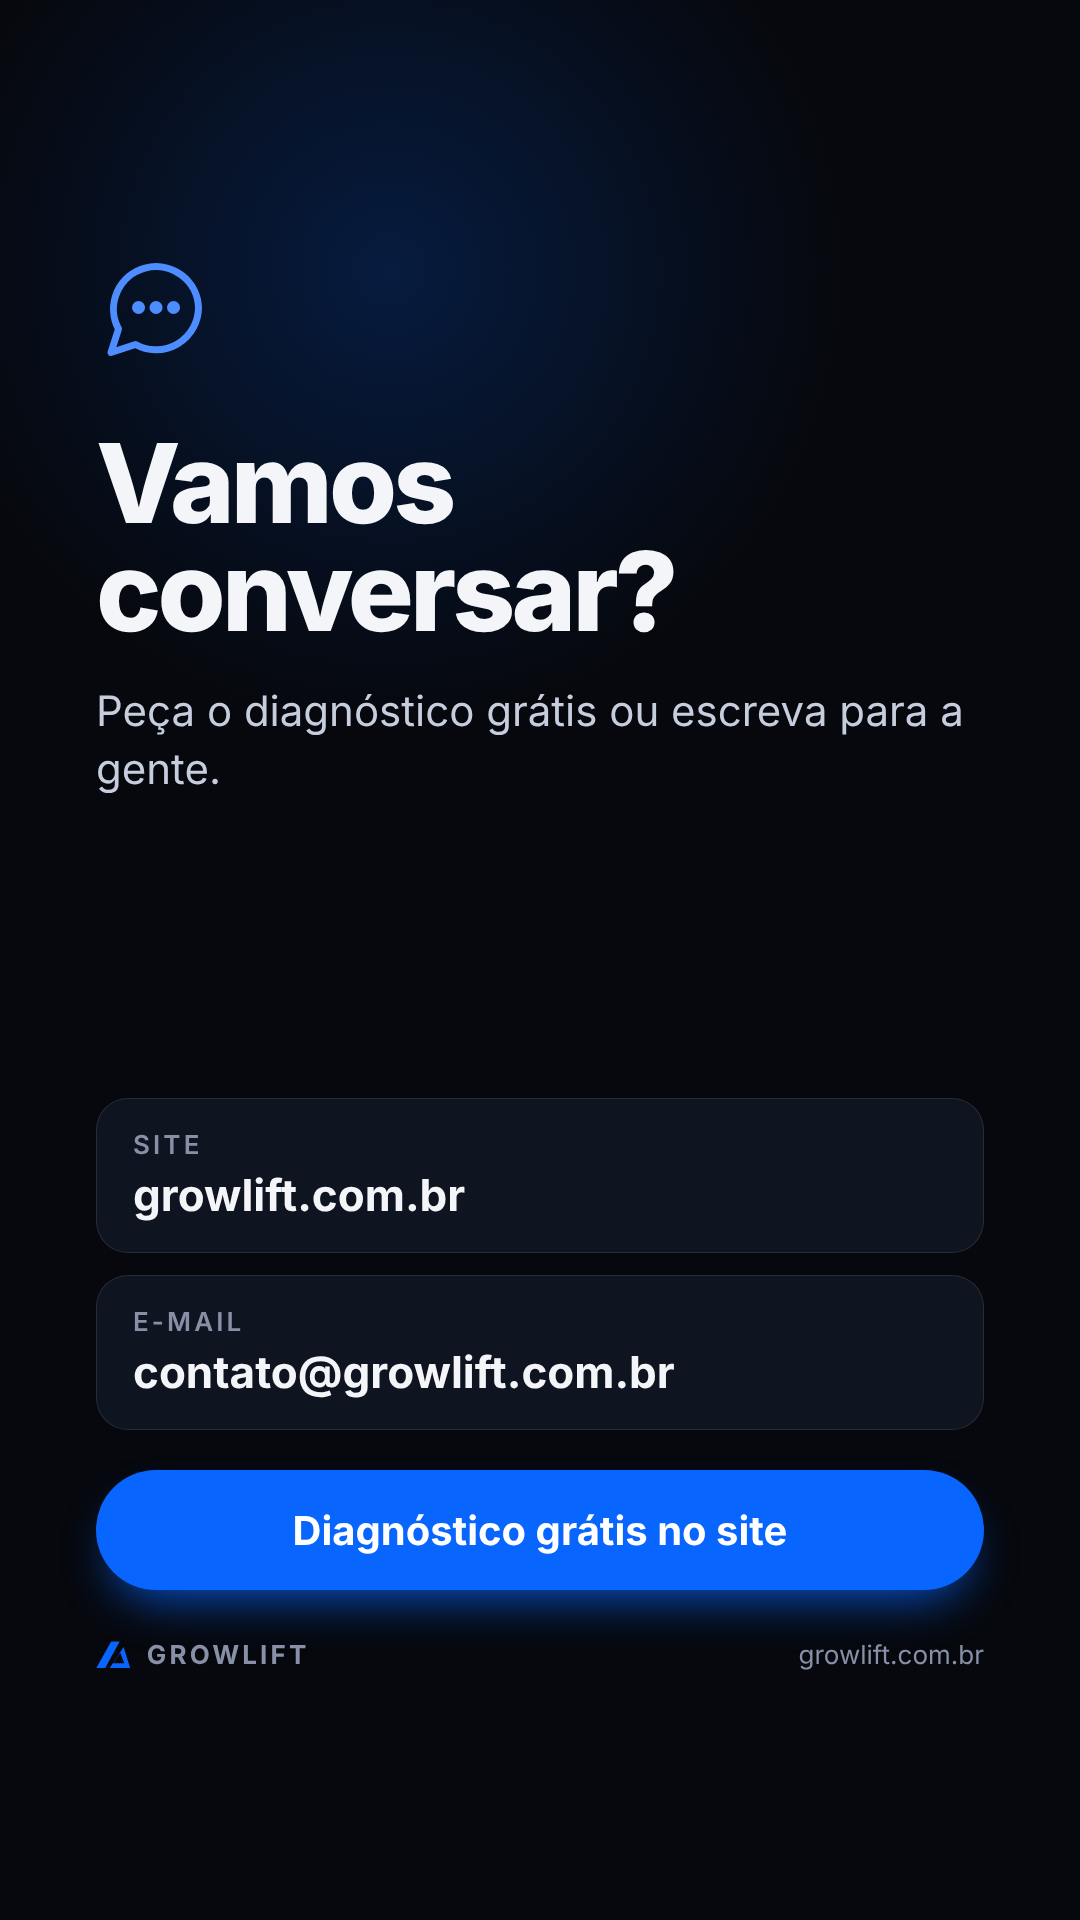
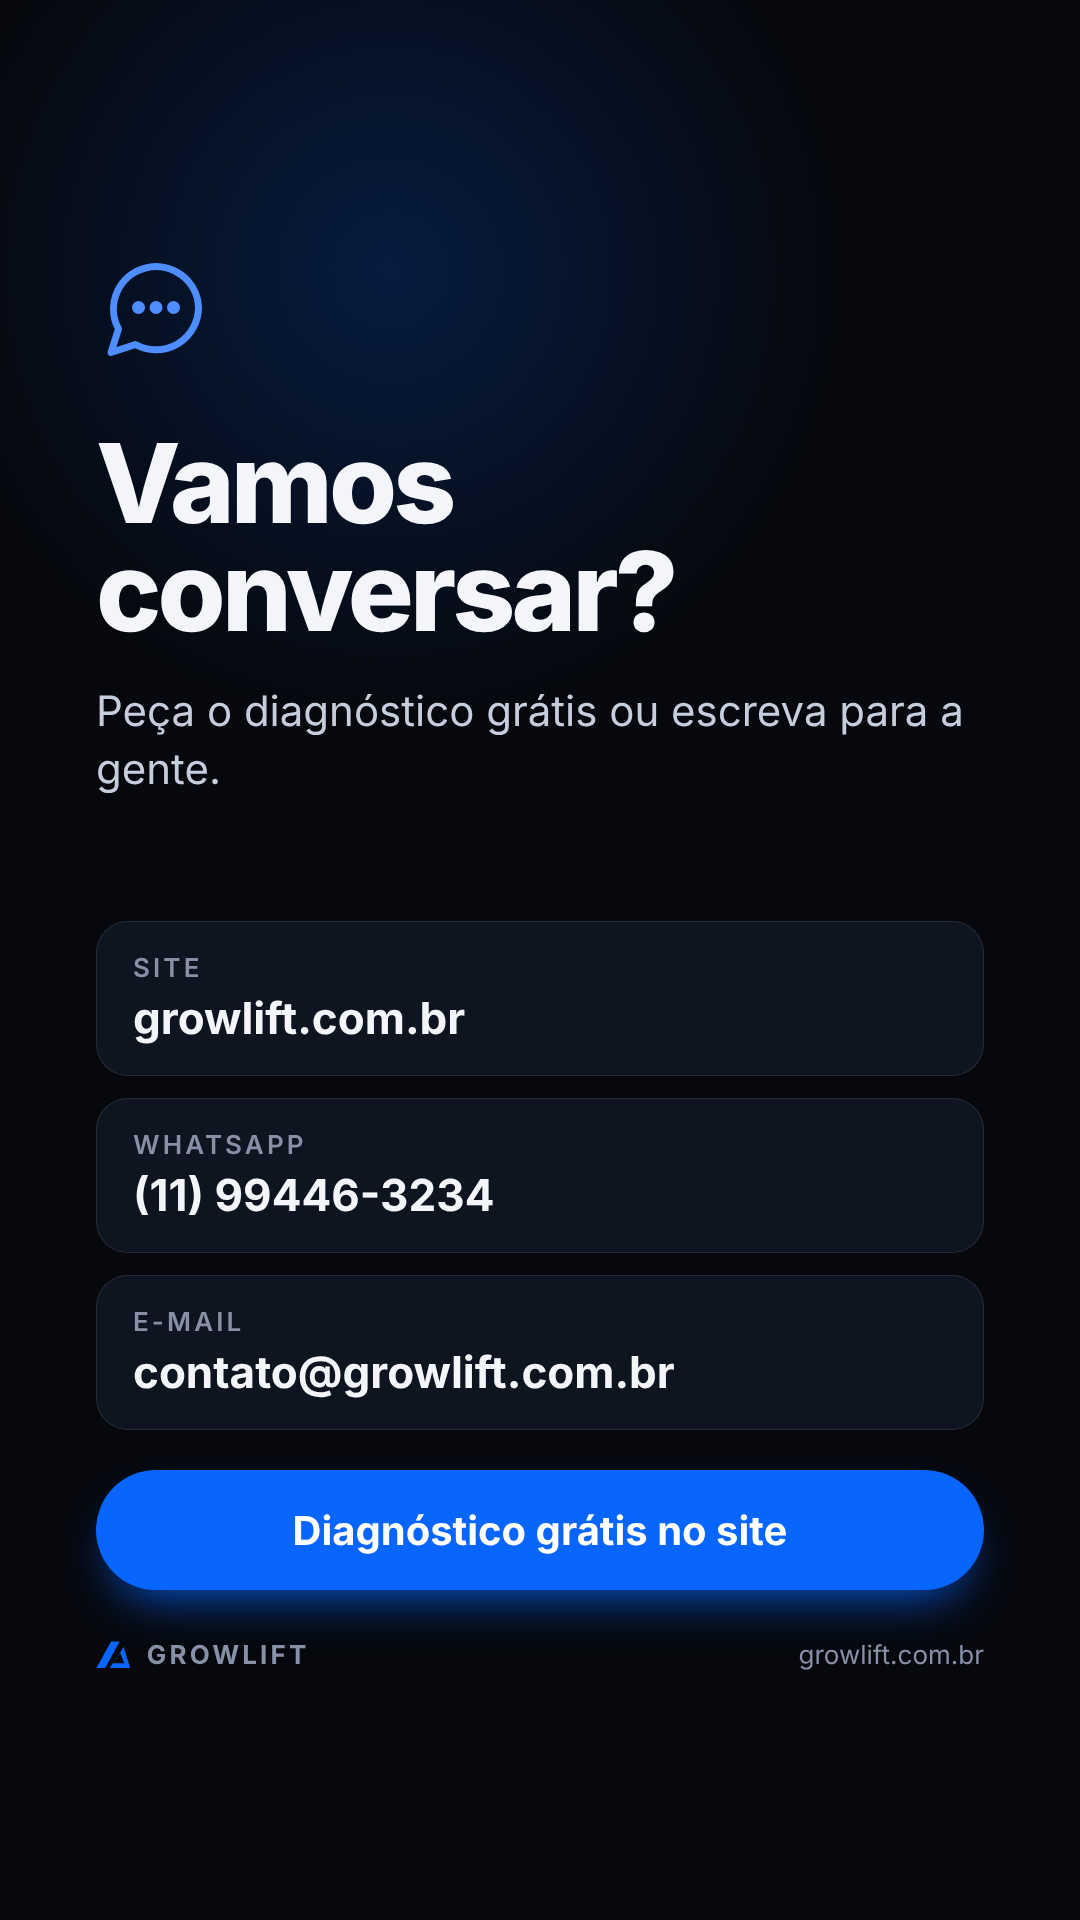
Growlift: botão de WhatsApp no topo e fidelidade do Lift em 4 meses
- Botão do WhatsApp (11) 99446-3234 no topo do site (só o ícone no celular,
  e a marca sem o nome em telas pequenas para caber) e no rodapé.
- Fidelidade: 6 meses no Start e no Grow, 4 meses no Lift, no site, nos
  termos e na resposta rápida /servicos.
- Número comercial nos textos do Instagram e do WhatsApp e story de
  contato do WhatsApp no destaque Contato.

Claude-Session: https://claude.ai/code/session_0144E8K5YaHTVDtLe8swm1ug

Changed region(s): [[0.1222, 0.5938, 0.4583, 0.6562], [0.1222, 0.5, 0.4278, 0.5625]]

diff --git a/growlift-social/_fonte/html/03-destaques/6-contato/03.html b/growlift-social/_fonte/html/03-destaques/6-contato/03.html
@@ -1,0 +1,35 @@
+<!doctype html><html lang="pt-BR"><head><base href="file:///home/user/Hamburgueria/growlift-social/_fonte/assets/"><meta charset="utf-8"><link href="https://fonts.googleapis.com/css2?family=Inter:wght@400;500;600;700;800&display=swap" rel="stylesheet"><style>:root{--w:1080px;--h:1920px}
+*{box-sizing:border-box;margin:0;padding:0}
+html,body{width:var(--w);height:var(--h);overflow:hidden}
+body{position:relative;font-family:Inter,system-ui,sans-serif;color:#f3f5f9;background:#06080d;-webkit-font-smoothing:antialiased}
+.glow{position:absolute;border-radius:50%;pointer-events:none;background:radial-gradient(closest-side,rgba(8,101,254,.42),rgba(8,101,254,0) 70%)}
+.grid{position:absolute;inset:0;background-image:linear-gradient(rgba(255,255,255,.035) 1px,transparent 1px),linear-gradient(90deg,rgba(255,255,255,.035) 1px,transparent 1px);background-size:72px 72px;-webkit-mask-image:radial-gradient(ellipse at 50% 45%,#000 25%,transparent 72%)}
+.eyebrow{font-size:28px;font-weight:600;letter-spacing:.16em;text-transform:uppercase;color:#6ea6ff}
+.h1{font-weight:800;letter-spacing:-.035em;line-height:.98}
+.blue{color:#4d8dff}
+.lead{color:#c6cede;line-height:1.4}
+.muted{color:#a9b3c7}
+.chip{display:inline-flex;align-items:center;gap:12px;border:1px solid rgba(141,184,255,.35);color:#8db8ff;border-radius:999px;font-weight:600;letter-spacing:.08em;text-transform:uppercase}
+.btn{display:inline-flex;align-items:center;justify-content:center;background:#0865fe;color:#fff;border-radius:999px;font-weight:700;box-shadow:0 24px 50px -20px rgba(8,101,254,.9)}
+.card{background:#0f1520;border:1px solid rgba(255,255,255,0.10);border-radius:32px}
+.brand{display:flex;align-items:center;gap:16px;font-weight:700;letter-spacing:.12em}
+.brand svg{height:1.05em;width:auto}
+.browser{border-radius:26px;overflow:hidden;background:#0f1520;border:1px solid rgba(255,255,255,0.10);box-shadow:0 -30px 90px -30px rgba(8,101,254,.55),0 40px 80px -40px rgba(0,0,0,.9)}
+.browser .bar{display:flex;align-items:center;gap:10px;height:54px;padding:0 22px;border-bottom:1px solid rgba(255,255,255,.08)}
+.browser .bar i{width:14px;height:14px;border-radius:50%;background:#2a3344}
+.browser .bar span{margin-left:14px;font-size:20px;color:#7d879c;background:#161d2a;padding:6px 18px;border-radius:999px}
+.browser img{display:block;width:100%;aspect-ratio:16/10;object-fit:cover;object-position:top}
+.phone{border-radius:64px;padding:16px;background:#1a2130;box-shadow:0 50px 90px -40px rgba(0,0,0,.95),0 0 0 2px rgba(255,255,255,.06)}
+.phone img{display:block;width:100%;border-radius:50px}
+.tag-conceito{display:inline-block;font-size:22px;font-weight:600;letter-spacing:.06em;color:#8790a6;border:1px dashed rgba(255,255,255,.22);border-radius:999px;padding:8px 18px}
+</style></head><body>
+    <div class="glow" style="width:1300px;height:1300px;left:-260px;top:-380px;opacity:.5"></div>
+    <div style="position:absolute;left:96px;right:96px;top:250px;bottom:330px;display:flex;flex-direction:column">
+    <div><svg width="120" height="120" viewBox="0 0 24 24" fill="none" stroke="#4d8dff" stroke-width="1.4" stroke-linecap="round" stroke-linejoin="round" aria-hidden="true"><path d="M20.5 11.5a8.5 8.5 0 0 1-12.6 7.4L3 20.5l1.5-4.7A8.5 8.5 0 1 1 20.5 11.5z"/><path d="M8.5 11.5h.01M12 11.5h.01M15.5 11.5h.01" stroke-width="2.6"/></svg></div>
+    <h1 class="h1" style="font-size:110px;margin-top:56px">Chama no WhatsApp.</h1>
+    <p class="lead" style="font-size:42px;margin-top:36px">Tire dúvidas sobre os planos ou peça o seu diagnóstico.</p>
+    <div style="margin-top:auto;display:grid;gap:22px">
+      <div class="card" style="padding:30px 36px"><p style="font-size:26px;letter-spacing:.12em;text-transform:uppercase;color:#8790a6;font-weight:600">WhatsApp</p><p style="font-size:44px;font-weight:700;margin-top:8px">(11) 99446-3234</p></div><div class="card" style="padding:30px 36px"><p style="font-size:26px;letter-spacing:.12em;text-transform:uppercase;color:#8790a6;font-weight:600">Resposta</p><p style="font-size:44px;font-weight:700;margin-top:8px">Por uma pessoa, em dias úteis</p></div>
+    </div>
+    <div class="btn" style="margin-top:40px;height:120px;font-size:40px">Toque no link para conversar</div></div>
+    <div style="position:absolute;left:96px;right:96px;bottom:250px;display:flex;justify-content:space-between;align-items:center;color:#8790a6;font-size:26px"><div class="brand" style="font-size:26px"><svg viewBox="50 40 530 415" xmlns="http://www.w3.org/2000/svg"><path fill="#0865FE" d="M280 48H410L190 450H55Z"/><path fill="#0865FE" fill-rule="evenodd" d="M470 130L570 450H258Z M418 220L480 380H309Z"/></svg>GROWLIFT</div><span>growlift.com.br</span></div></body></html>

diff --git a/growlift/index.html b/growlift/index.html
@@ -20,12 +20,13 @@
 
 <header class="top" id="topo">
   <div class="wrap">
-    <a class="logo" href="#conteudo" aria-label="Growlift, início"><svg aria-hidden="true"><use href="#marca"/></svg>GROWLIFT</a>
+    <a class="logo" href="#conteudo" aria-label="Growlift, início"><svg aria-hidden="true"><use href="#marca"/></svg><span class="logo-word">GROWLIFT</span></a>
     <nav class="nav" aria-label="Principal">
       <a href="#como-funciona">Como funciona</a>
       <a href="#modelos">Modelos</a>
       <a href="#planos">Planos</a>
       <a href="#quem-somos">Quem somos</a>
+      <a class="btn btn-ghost btn-wa" href="https://wa.me/5511994463234?text=Ol%C3%A1!%20Vim%20pelo%20site%20da%20Growlift%20e%20tenho%20uma%20d%C3%BAvida." target="_blank" rel="noopener" aria-label="Tirar dúvidas no WhatsApp"><svg viewBox="0 0 24 24" aria-hidden="true"><path fill="currentColor" d="M12.04 2C6.58 2 2.13 6.45 2.13 11.91c0 1.75.46 3.45 1.32 4.95L2.05 22l5.25-1.38a9.86 9.86 0 0 0 4.74 1.21h.01c5.46 0 9.91-4.45 9.91-9.91 0-2.65-1.03-5.14-2.9-7.01A9.82 9.82 0 0 0 12.04 2zm0 18.15h-.01a8.2 8.2 0 0 1-4.19-1.15l-.3-.18-3.12.82.83-3.04-.2-.31a8.2 8.2 0 0 1-1.26-4.38c0-4.54 3.7-8.24 8.25-8.24 2.2 0 4.27.86 5.83 2.42a8.18 8.18 0 0 1 2.41 5.83c0 4.54-3.7 8.23-8.24 8.23zm4.52-6.16c-.25-.12-1.47-.72-1.69-.81-.23-.08-.39-.12-.56.12-.17.25-.64.81-.78.97-.14.17-.29.19-.54.06-.25-.12-1.05-.39-1.99-1.23-.74-.66-1.23-1.47-1.38-1.72-.14-.25-.02-.38.11-.51.11-.11.25-.29.37-.43.12-.14.17-.25.25-.41.08-.17.04-.31-.02-.43-.06-.12-.56-1.34-.76-1.84-.2-.48-.41-.42-.56-.43h-.48c-.17 0-.43.06-.66.31-.23.25-.86.85-.86 2.07 0 1.22.89 2.4 1.01 2.56.12.17 1.75 2.67 4.23 3.74.59.26 1.05.41 1.41.52.59.19 1.13.16 1.56.1.48-.07 1.47-.6 1.67-1.18.21-.58.21-1.07.14-1.18-.06-.11-.22-.17-.47-.29z"/></svg><span>WhatsApp</span></a>
       <a class="btn btn-primary" href="#diagnostico">Diagnóstico grátis</a>
     </nav>
   </div>
@@ -209,7 +210,7 @@
           <a class="btn btn-ghost" href="#diagnostico">Quero vender pelo site</a>
         </article>
       </div>
-      <p class="plans-note reveal">O domínio fica no nome do seu negócio. No Lift, o Pix cai direto na sua conta.<br>Planos com contrato e fidelidade: 6 meses no Start e no Grow, 12 meses no Lift, com a criação do site sem custo. Se sair antes, paga só a parte proporcional da criação. Desistência em até 7 dias sem multa.<br>O site vai ao ar em até 7 dias úteis depois que recebemos o seu material (fotos, textos, cardápio ou serviços). SEO e Perfil no Google ajudam quem procura a achar você, mas ninguém pode garantir posição no Google.</p>
+      <p class="plans-note reveal">O domínio fica no nome do seu negócio. No Lift, o Pix cai direto na sua conta.<br>Planos com contrato e fidelidade: 6 meses no Start e no Grow, 4 meses no Lift, com a criação do site sem custo. Se sair antes, paga só a parte proporcional da criação. Desistência em até 7 dias sem multa.<br>O site vai ao ar em até 7 dias úteis depois que recebemos o seu material (fotos, textos, cardápio ou serviços). SEO e Perfil no Google ajudam quem procura a achar você, mas ninguém pode garantir posição no Google.</p>
     </div>
   </section>
 
@@ -323,6 +324,7 @@
     <div>
       <h3>Contato</h3>
       <ul>
+        <li><a href="https://wa.me/5511994463234?text=Ol%C3%A1!%20Vim%20pelo%20site%20da%20Growlift%20e%20tenho%20uma%20d%C3%BAvida." target="_blank" rel="noopener">WhatsApp (11) 99446-3234</a></li>
         <li><a href="mailto:contato@growlift.com.br">contato@growlift.com.br</a></li>
         <li><a href="https://instagram.com/growlift.ai" target="_blank" rel="noopener">@growlift.ai</a></li>
       </ul>

diff --git a/growlift-social/_fonte/html/03-destaques/6-contato/01.html b/growlift-social/_fonte/html/03-destaques/6-contato/01.html
@@ -29,7 +29,7 @@ body{position:relative;font-family:Inter,system-ui,sans-serif;color:#f3f5f9;back
     <h1 class="h1" style="font-size:110px;margin-top:56px">Vamos conversar?</h1>
     <p class="lead" style="font-size:42px;margin-top:36px">Peça o diagnóstico grátis ou escreva para a gente.</p>
     <div style="margin-top:auto;display:grid;gap:22px">
-      <div class="card" style="padding:30px 36px"><p style="font-size:26px;letter-spacing:.12em;text-transform:uppercase;color:#8790a6;font-weight:600">Site</p><p style="font-size:44px;font-weight:700;margin-top:8px">growlift.com.br</p></div><div class="card" style="padding:30px 36px"><p style="font-size:26px;letter-spacing:.12em;text-transform:uppercase;color:#8790a6;font-weight:600">E-mail</p><p style="font-size:44px;font-weight:700;margin-top:8px">contato@growlift.com.br</p></div>
+      <div class="card" style="padding:30px 36px"><p style="font-size:26px;letter-spacing:.12em;text-transform:uppercase;color:#8790a6;font-weight:600">Site</p><p style="font-size:44px;font-weight:700;margin-top:8px">growlift.com.br</p></div><div class="card" style="padding:30px 36px"><p style="font-size:26px;letter-spacing:.12em;text-transform:uppercase;color:#8790a6;font-weight:600">WhatsApp</p><p style="font-size:44px;font-weight:700;margin-top:8px">(11) 99446-3234</p></div><div class="card" style="padding:30px 36px"><p style="font-size:26px;letter-spacing:.12em;text-transform:uppercase;color:#8790a6;font-weight:600">E-mail</p><p style="font-size:44px;font-weight:700;margin-top:8px">contato@growlift.com.br</p></div>
     </div>
     <div class="btn" style="margin-top:40px;height:120px;font-size:40px">Diagnóstico grátis no site</div></div>
     <div style="position:absolute;left:96px;right:96px;bottom:250px;display:flex;justify-content:space-between;align-items:center;color:#8790a6;font-size:26px"><div class="brand" style="font-size:26px"><svg viewBox="50 40 530 415" xmlns="http://www.w3.org/2000/svg"><path fill="#0865FE" d="M280 48H410L190 450H55Z"/><path fill="#0865FE" fill-rule="evenodd" d="M470 130L570 450H258Z M418 220L480 380H309Z"/></svg>GROWLIFT</div><span>growlift.com.br</span></div></body></html>

diff --git a/growlift/termos.html b/growlift/termos.html
@@ -34,7 +34,7 @@
 </header>
 <main class="doc" id="conteudo">
   <h1>Termos de uso</h1>
-  <p class="updated">Última atualização: outubro de 2026</p>
+  <p class="updated">Última atualização: 26 de outubro de 2026</p>
 
   <p>Estes termos valem para quem usa o site da Growlift e pede o diagnóstico grátis. A contratação de um plano é feita por contrato escrito, que traz todas as condições; se algo aqui for diferente do contrato, vale o contrato.</p>
 
@@ -51,7 +51,7 @@
   <h2>Planos e contratação</h2>
   <ul>
     <li>Os planos Start, Grow e Lift têm mensalidade fixa, sem comissão sobre pedidos. Os valores e o que cada plano inclui estão na seção <a href="index.html#planos">Planos</a>.</li>
-    <li>Os planos têm fidelidade: 6 meses no Start e no Grow e 12 meses no Lift, com a criação do site sem custo para quem cumpre esse prazo.</li>
+    <li>Os planos têm fidelidade: 6 meses no Start e no Grow e 4 meses no Lift, com a criação do site sem custo para quem cumpre esse prazo.</li>
     <li>O site vai ao ar em até 7 dias úteis depois que recebemos o seu material (fotos, textos, cardápio ou serviços).</li>
     <li>Alterações por mês: 1 no Start, 2 no Grow e 4 no Lift, cada uma pronta em até 2 dias úteis.</li>
     <li>O domínio do site é registrado no nome do seu negócio.</li>

diff --git a/growlift/styles.css b/growlift/styles.css
@@ -63,6 +63,12 @@ section { position: relative; }
 .nav a:not(.btn) { color: var(--muted); text-decoration: none; }
 .nav a:not(.btn):hover { color: var(--text); }
 .nav .btn { min-height: 44px; padding: 0 20px; font-size: 15px; white-space: nowrap; }
+.btn-wa { gap: 8px; }
+.btn-wa svg { width: 20px; height: 20px; color: #25d366; flex: none; }
+.nav .btn-wa + .btn { margin-left: -18px; }
+@media (max-width: 860px) { .nav .btn-wa { width: 44px; padding: 0; } .btn-wa span { display: none; } }
+/* Phones: the mark alone, so the WhatsApp and diagnosis buttons fit beside it. */
+@media (max-width: 480px) { .top .logo-word { display: none; } }
 @media (max-width: 420px) { .nav .btn { padding: 0 16px; font-size: 14px; } .logo { font-size: 18px; } }
 @media (max-width: 860px) { .nav a:not(.btn) { display: none; } }
 

diff --git a/growlift-social/06-whatsapp-business/whatsapp-business.md b/growlift-social/06-whatsapp-business/whatsapp-business.md
@@ -1,6 +1,6 @@
 # WhatsApp Business
 
-Nada foi configurado. Os campos marcados como **[pendente]** precisam de dados que só vocês têm. Não inventei nenhum.
+Nada foi configurado. O número comercial é o (11) 99446-3234; o botão do site já abre a conversa nele.
 
 ## Perfil comercial
 
@@ -10,7 +10,7 @@ Nada foi configurado. Os campos marcados como **[pendente]** precisam de dados q
 | Categoria | Agência de marketing. Se não existir na lista, a mais próxima, como "Serviços profissionais". |
 | Descrição | Texto abaixo |
 | Recado | `Sites e soluções digitais para negócios locais.` (47 de 139 caracteres) |
-| Telefone | **[pendente: número comercial, separado do pessoal]** |
+| Telefone | (11) 99446-3234 |
 | E-mail | contato@growlift.com.br |
 | Site | https://growlift.com.br (quando o domínio estiver no ar) |
 | Horário | Sempre aberto (com a mensagem automática abaixo) |
@@ -74,7 +74,7 @@ A gente trabalha com três planos, todos com mensalidade fixa e sem comissão po
 • Start: site feito do zero, com domínio e hospedagem.
 • Grow: tudo do Start, mais preparo para o Google e o Perfil da Empresa no Google.
 • Lift: tudo do Grow, mais pedido e Pix direto no seu site.
-Todos têm contrato com fidelidade (6 meses no Start e no Grow, 12 no Lift) e 7 dias para desistir sem multa.
+Todos têm contrato com fidelidade (6 meses no Start e no Grow, 4 no Lift) e 7 dias para desistir sem multa.
 Valores e detalhes: growlift.com.br/#planos
 Qual desses parece mais perto do que você precisa?
 ```

diff --git a/growlift-social/README.md b/growlift-social/README.md
@@ -28,10 +28,11 @@ O painel lê esta pasta toda vez que é publicado. Para entrar uma peça nova, b
 
 ## Pendente (precisa de vocês)
 
-1. **Número do WhatsApp comercial** (em criação): com ele eu gero o story de contato do WhatsApp e completo o perfil.
-2. **Clientes:** o destaque só entra com o primeiro cliente real, com depoimento autorizado por escrito.
+1. **Clientes:** o destaque só entra com o primeiro cliente real, com depoimento autorizado por escrito.
 
 **Já decidido:**
+- WhatsApp comercial: (11) 99446-3234 (botão no topo do site e story de contato).
+- Fidelidade: 6 meses no Start e no Grow, 4 meses no Lift.
 - Site no ar em https://growlift.com.br (desde 26/10/2026): link da bio e posts liberados.
 - Instagram **@growlift.ai**.
 - Alterações por mês: Grow 2 e Lift 4.

diff --git a/growlift-social/03-destaques/destaques.md b/growlift-social/03-destaques/destaques.md
@@ -63,13 +63,13 @@ Abertura e cinco passos:
 
 Os prazos são os do contrato. Se vocês entregarem antes, melhor; mas o que se promete é o que está escrito.
 
-## 6 · Contato (2 stories, mais 1 pendente)
+## 6 · Contato (3 stories)
 
 | Arquivo | O que mostra |
 | --- | --- |
-| 01 | Site e e-mail, com o botão do diagnóstico grátis |
+| 01 | Site, WhatsApp e e-mail, com o botão do diagnóstico grátis |
 | 02 | Lucas e Antônio, "quem conversa com você é quem faz o seu site" |
-| pendente | **Story do WhatsApp:** gero quando vocês passarem o número comercial |
+| 03 | **WhatsApp** (11) 99446-3234. Ao postar, ponham o adesivo de link para `https://wa.me/5511994463234` |
 
 ## Editar
 

diff --git a/growlift-social/02-instagram-perfil/perfil.md b/growlift-social/02-instagram-perfil/perfil.md
@@ -39,7 +39,7 @@ O nome aparece na busca do Instagram, então "Sites" ajuda quem procura por isso
 | Botão | Valor |
 | --- | --- |
 | E-mail | contato@growlift.com.br |
-| WhatsApp | **[número comercial da Growlift: pendente]** |
+| WhatsApp | (11) 99446-3234 |
 | Endereço | Não exibir. Só faz sentido se houver um ponto comercial aberto ao público. |
 
 ## Foto de perfil
